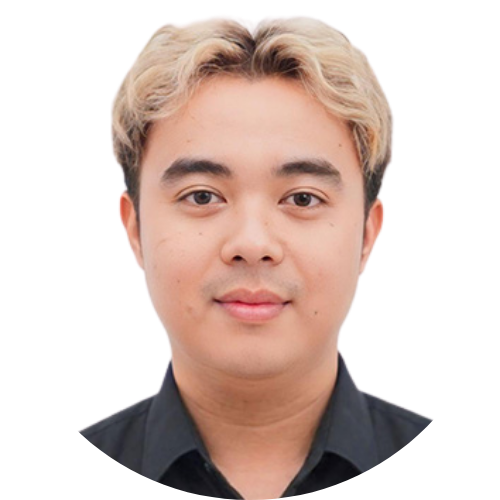
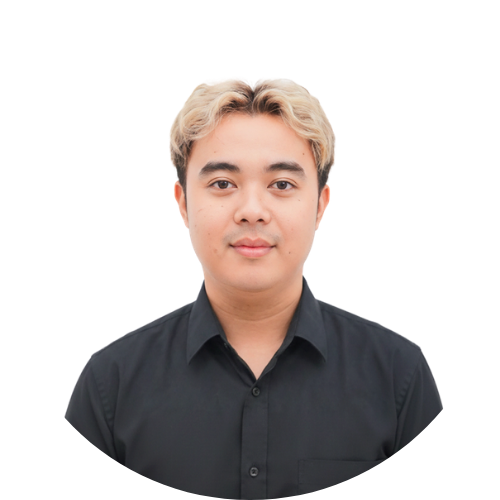
"commit changes"

diff --git a/app/work/page.jsx b/app/work/page.jsx
@@ -25,7 +25,7 @@ const projects = [
     category: "Mobile App (2024)",
     title: "ArtuGo HR System",
     description:
-      "A comprehensive mobile HRIS application designed to streamline employee management at PT Kreasi Arduo Indonesia. Features include real-time GPS attendance tracking, leave request management, and secure digital payslip access. Integrated with a robust Laravel API backend to ensure seamless data synchronization between mobile users and the central database.",
+      "An enterprise-grade HRIS mobile app built with Flutter and GetX, fully integrated with Odoo ERP. Engineered with offline-first architecture, it features real-time GPS attendance validation, deep-linked FCM notifications, and environment management (Dev/Prod). Solved complex connectivity issues to ensure seamless data synchronization.",
     stack: [{ name: "Flutter" }, { name: "GetX" }, { name: "Python (Odoo)" }, { name: "Firebase" }],
     image: "/assets/work/thumb_artugo.png",
     live: "",
